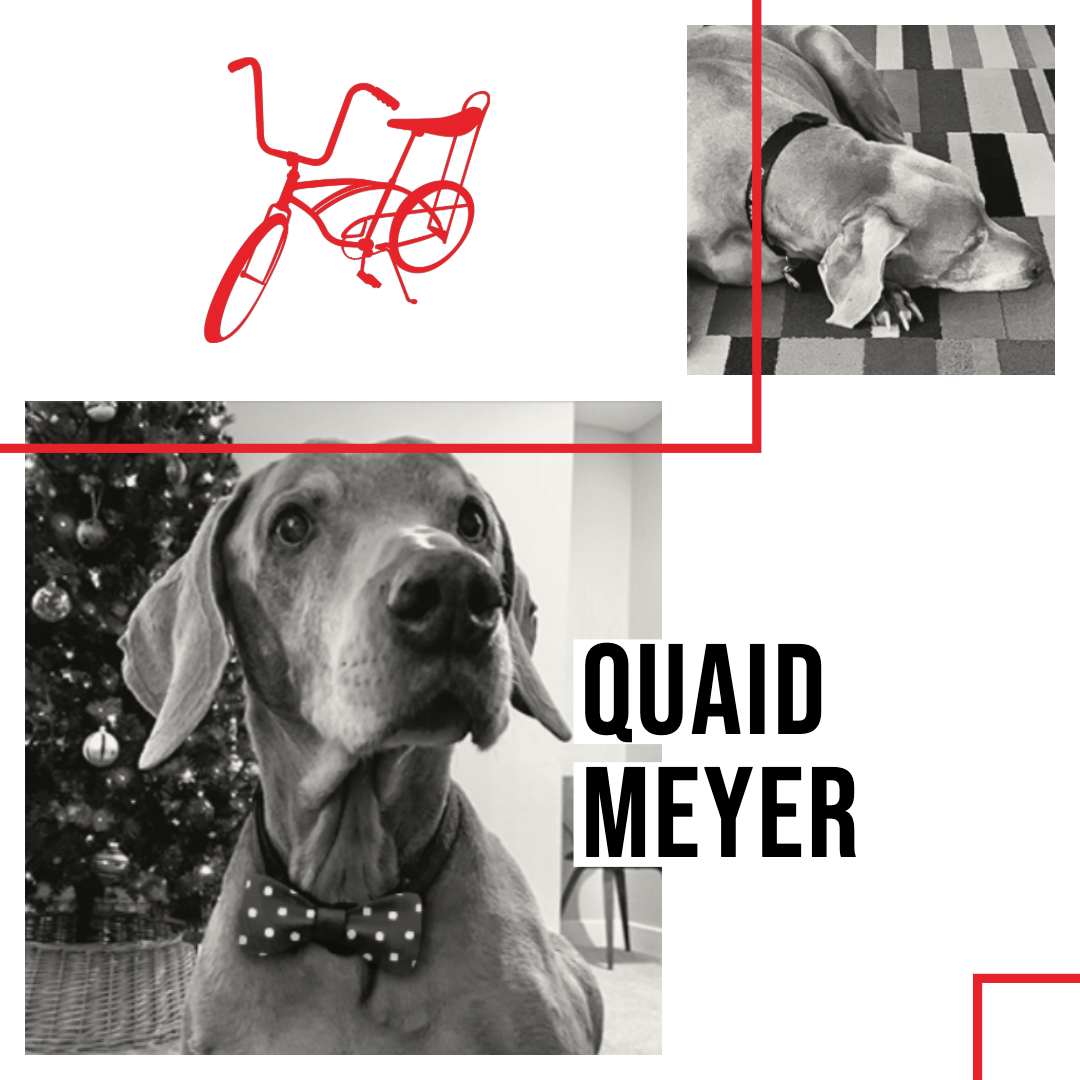
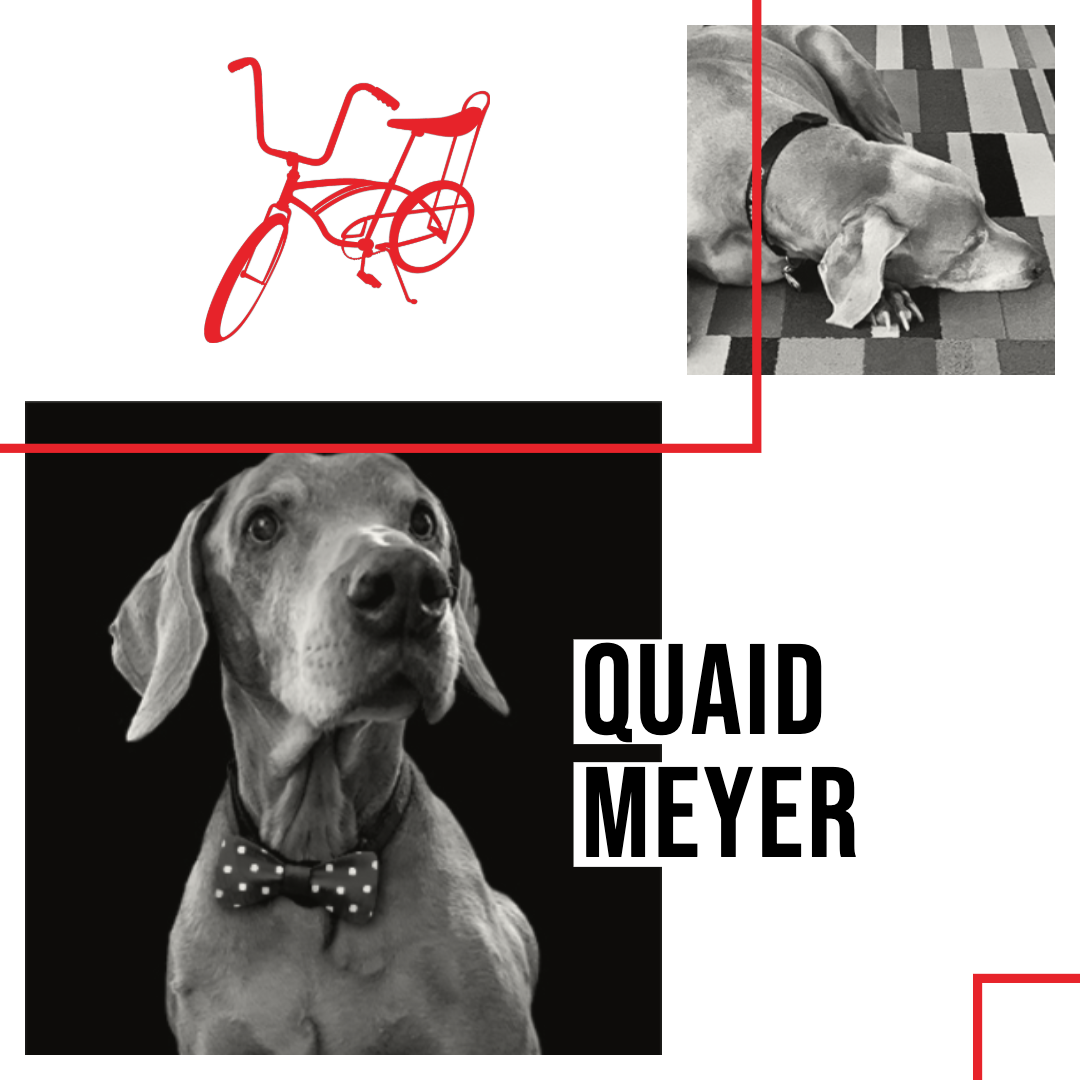
updated team photos

Changed region(s): [[0.0, 0.3667, 0.6111, 0.9778]]

diff --git a/index.html b/index.html
@@ -177,7 +177,7 @@
             <img src="assets/images/team/brian.jpg" alt="Brian Profile Photo" class="img-responsive">
             <div class="t-description">
               <div class="content-wrapper">
-                <img src="assets/images/team/brain_urban.jpg" alt="Brian Personality Photo" class="img-responsive">
+                <img src="assets/images/team/brian_urban.jpg" alt="Brian Personality Photo" class="img-responsive">
               </div>
             </div>
           </div>
@@ -345,10 +345,10 @@
 
           <!-- Image -->
           <div class="t-image">
-            <img src="assets/images/team/Quaid_All_Business_360x440.jpg" alt="Quaid Profile Photo" class="img-responsive">
+            <img src="assets/images/team/quaid.jpg" alt="Quaid Profile Photo" class="img-responsive">
             <div class="t-description">
               <div class="content-wrapper">
-                <img src="assets/images/team/quaid.jpg" alt="Quaid Personality Photo" class="img-responsive">
+                <img src="assets/images/team/quaid_urban.jpg" alt="Quaid Personality Photo" class="img-responsive">
               </div>
             </div>
           </div>
